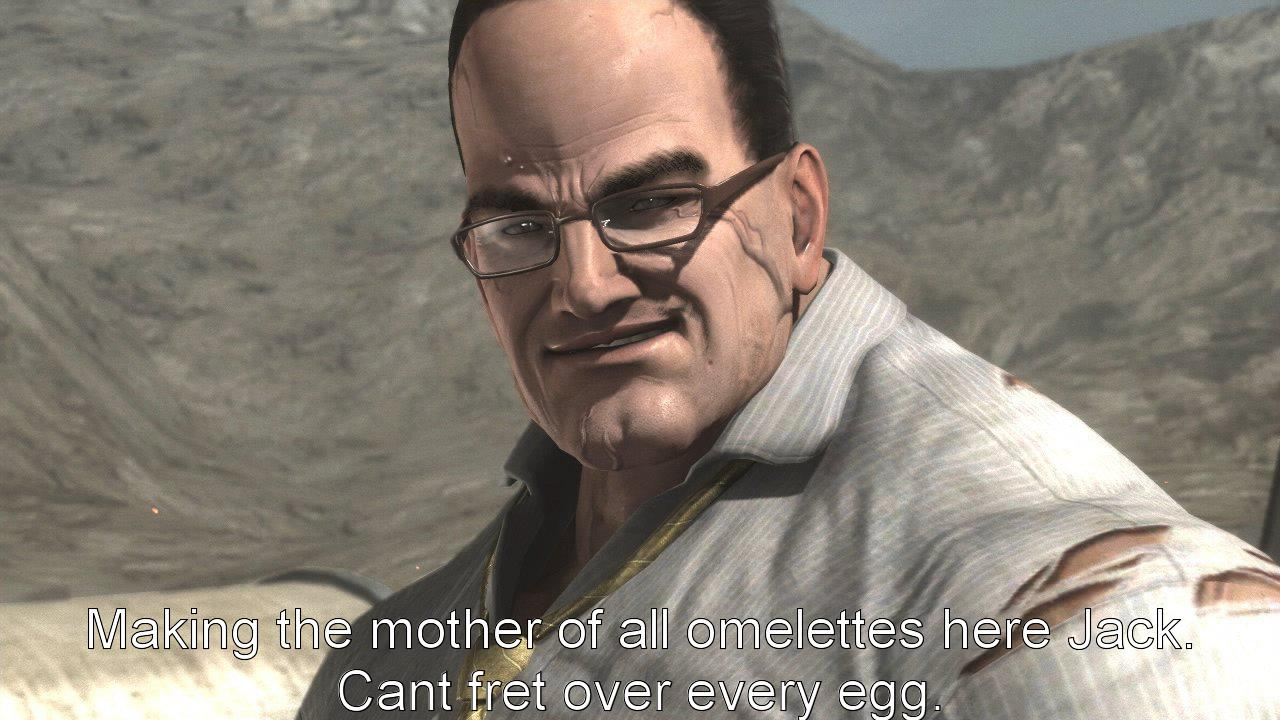
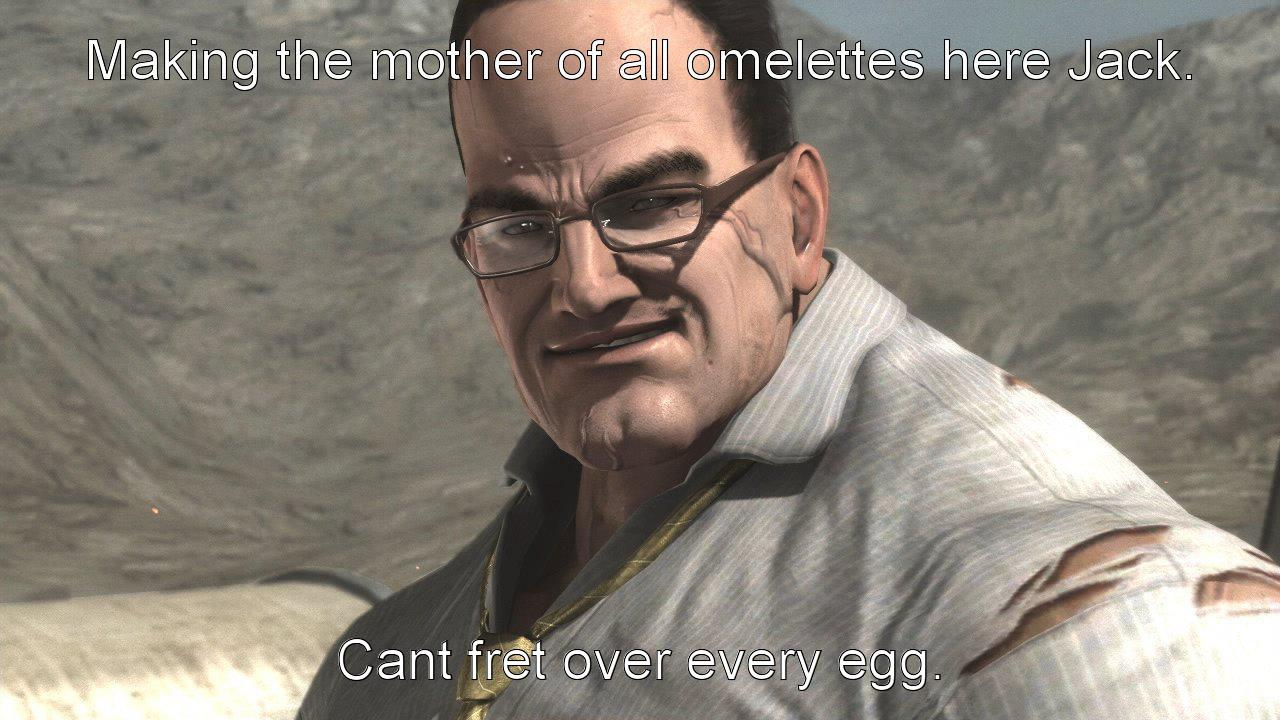
Add support for multiple captions

Changed region(s): [[0.0625, 0.825, 0.9375, 1.0], [0.0625, 0.0611, 0.9375, 0.1222]]

diff --git a/MemeGeneratorApi/lib/request_body_parser.rb b/MemeGeneratorApi/lib/request_body_parser.rb
@@ -1,17 +1,41 @@
 require 'json'
 require './lib/arguments'
+require './lib/caption'
 
 module RequestBodyParser
   def self.extract_arguments(request_body_contents)
     request_payload = JSON.parse(request_body_contents)
+    captions = extract_captions(request_payload)
+
     arguments = Arguments.new(
       request_payload['original_image_path'],
       request_payload['final_image_path'],
-      request_payload['text'],
-      request_payload['font'] || 'Arial',
-      request_payload['fill_color'] || 'White',
-      request_payload['under_color'] || 'Black',
-      request_payload['point_size'] != nil ? request_payload['point_size'].to_i : 8,
-      request_payload['gravity'] || 'Center')
+      captions)
+  end
+
+  private
+
+  def self.extract_captions(request_payload)
+    captions_payload = request_payload['captions']
+    captions = []
+
+    if (captions_payload == nil || !captions_payload.kind_of?(Array))
+      return captions
+    end
+
+    for caption_payload in captions_payload
+      caption = Caption.new(
+        caption_payload['text'],
+        caption_payload['font'] || 'Arial',
+        caption_payload['fill_color'] || 'White',
+        caption_payload['under_color'] || 'Black',
+        caption_payload['point_size'] != nil ? caption_payload['point_size'].to_i : 8,
+        caption_payload['position_x'] != nil ? caption_payload['position_x'].to_i : 0,
+        caption_payload['position_y'] != nil ? caption_payload['position_y'].to_i : 0)
+
+      captions.push(caption)
+    end
+
+    captions
   end
 end

diff --git a/MemeGeneratorApi/lib/meme_generator.rb b/MemeGeneratorApi/lib/meme_generator.rb
@@ -4,8 +4,12 @@ require './lib/arguments'
 
 module MemeGenerator
   def self.generate_meme(arguments)
-    if (arguments.original_image_path == nil || arguments.final_image_path == nil || arguments.text == nil)
-      raise 'You need to provide at least original_image_path, final_image_path and text in order to generate some spicy memes'
+    if (arguments.original_image_path == nil || arguments.final_image_path == nil)
+      raise 'You need to provide at least original_image_path and final_image_path in order to generate some spicy memes'
+    end
+
+    if (arguments.captions.count == 0)
+      raise 'How can you expect to generate a meme without captions?'
     end
 
     original_image_path = arguments.original_image_path
@@ -21,14 +25,17 @@ module MemeGenerator
     end
 
     image = MiniMagick::Image.open(original_image_path)
-    image.combine_options do |c|
-      c.gravity(arguments.gravity)
-      c.stroke(arguments.under_color)
-      c.strokewidth(1)
-      c.fill(arguments.fill_color)
-      c.pointsize arguments.point_size
-      c.draw "text 0,300 '#{arguments.text}'" 
-      c.font arguments.font
+    
+    for caption in arguments.captions
+      image.combine_options do |c|
+        c.stroke(caption.under_color)
+        c.strokewidth(1)
+        c.fill(caption.fill_color)
+        c.pointsize caption.point_size
+        c.font(caption.font)
+        c.gravity("Center")
+        c.draw("text #{caption.position_x},#{caption.position_y} '#{caption.text}'")
+      end
     end
 
     if (temp_image_path != nil)

diff --git a/MemeGeneratorApi/lib/arguments.rb b/MemeGeneratorApi/lib/arguments.rb
@@ -1,39 +1,19 @@
 class Arguments
   @original_image_path
   @final_image_path
-  @text
-  @font
-  @fill_color
-  @under_color
-  @point_size
-  @gravity
+  @captions
 
   attr_accessor :original_image_path
   attr_accessor :final_image_path
-  attr_accessor :text
-  attr_accessor :font
-  attr_accessor :fill_color
-  attr_accessor :under_color
-  attr_accessor :point_size
-  attr_accessor :gravity
+  attr_accessor :captions
 
   def initialize(
     original_image_path,
     final_image_path,
-    text,
-    font,
-    fill_color,
-    under_color,
-    point_size,
-    gravity)
+    captions)
 
     @original_image_path = original_image_path
     @final_image_path = final_image_path
-    @text = text
-    @font = font
-    @fill_color = fill_color
-    @under_color = under_color
-    @point_size = point_size
-    @gravity = gravity
+    @captions = captions
   end
 end

diff --git a/MemeGeneratorApi/lib/caption.rb b/MemeGeneratorApi/lib/caption.rb
@@ -1,0 +1,35 @@
+class Caption
+  @text
+  @font
+  @fill_color
+  @under_color
+  @point_size
+  @position_x
+  @position_y
+
+  attr_accessor :text
+  attr_accessor :font
+  attr_accessor :fill_color
+  attr_accessor :under_color
+  attr_accessor :point_size
+  attr_accessor :position_x
+  attr_accessor :position_y
+
+  def initialize(
+    text,
+    font,
+    fill_color,
+    under_color,
+    point_size,
+    position_x,
+    position_y)
+
+    @text = text
+    @font = font
+    @fill_color = fill_color
+    @under_color = under_color
+    @point_size = point_size
+    @position_x = position_x
+    @position_y = position_y
+  end
+end
